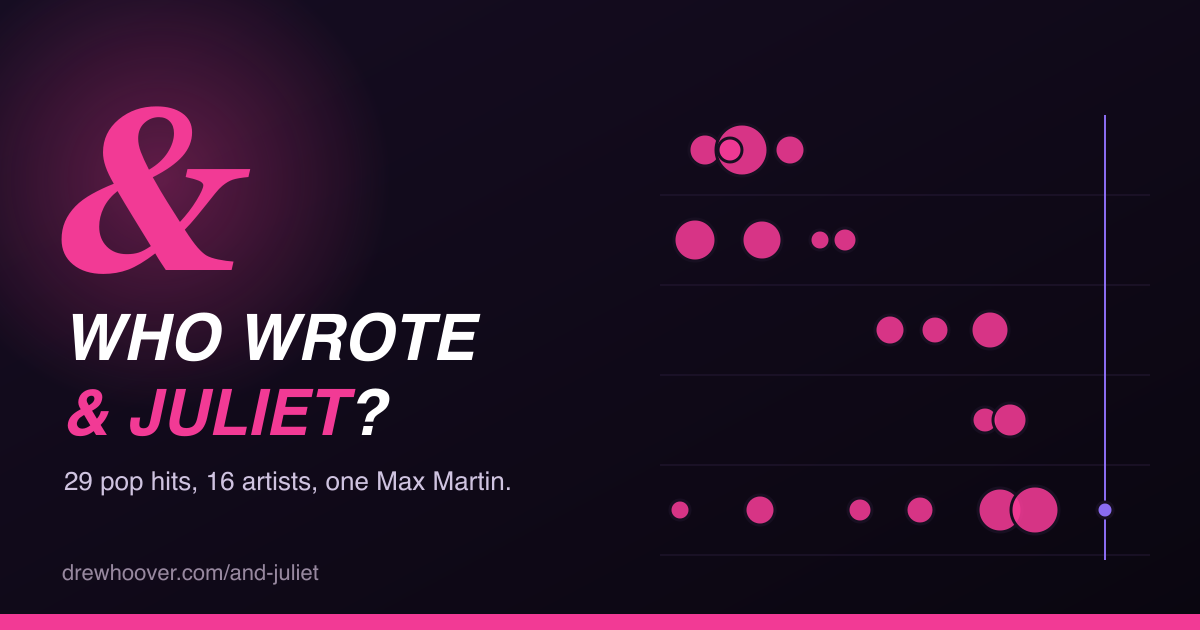
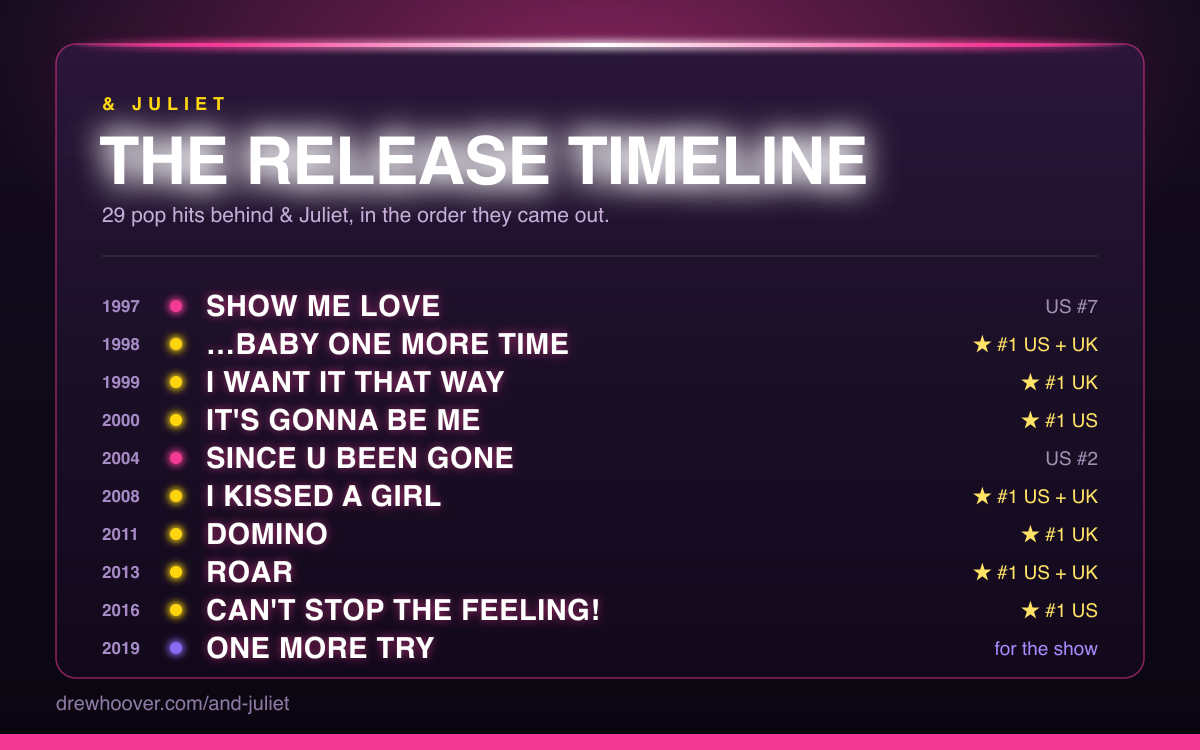
Refresh the & Juliet card for the redesigned site
The card still described a page that no longer exists — swimlanes, "Backstreet
Boys lead with six", bubbles sized by streams. The site is now a single neon
marquee listing every song in release order, ranked by chart peak rather than
streams.

New blurb is adapted from Drew's own intro copy on the page itself. New cover
is built at 1200x750 so it survives the card's 8:5 crop intact; the old one was
the 1200x630 OG image, which lost its top and bottom to object-fit: cover.

diff --git a/src/content/projects/and-juliet.md b/src/content/projects/and-juliet.md
@@ -1,6 +1,6 @@
 ---
 title: Who wrote & Juliet?
-blurb: "Every number in & Juliet is a Max Martin co-write — 29 borrowed pop hits plus one written for the show. A timeline of the originals: Backstreet Boys lead with six, Britney close behind, and the boy-band era supplies nearly half the score. Bubbles sized by streams today."
+blurb: "*& Juliet* is a brilliant Broadway musical that picks up where Romeo and Juliet would have ended — Juliet doesn't take the dagger, and instead goes on a journey of self-discovery aided by the pop-iest pop songs of the late 90s and early aughts. It's utterly delightful. Every one of them is a Max Martin co-write, so here they are on a timeline in release order, with the chart peak each one hit… because I want it that way."
 liveUrl: https://drewhoover.com/and-juliet/
 repoUrl: https://github.com/DrewHoo/and-juliet
 tags:
@@ -9,9 +9,9 @@ stack:
   - React
   - Vite
 cover: /projects/and-juliet.png
-coverAlt: Neon pink bubble timeline of the original pop songs behind the musical & Juliet
+coverAlt: Neon marquee listing the pop songs behind the musical & Juliet in release order, each with its chart peak
 pinned: false
 order: 42
 created: 2026-08-14
-updated: 2026-08-14
+updated: 2026-08-15
 ---
